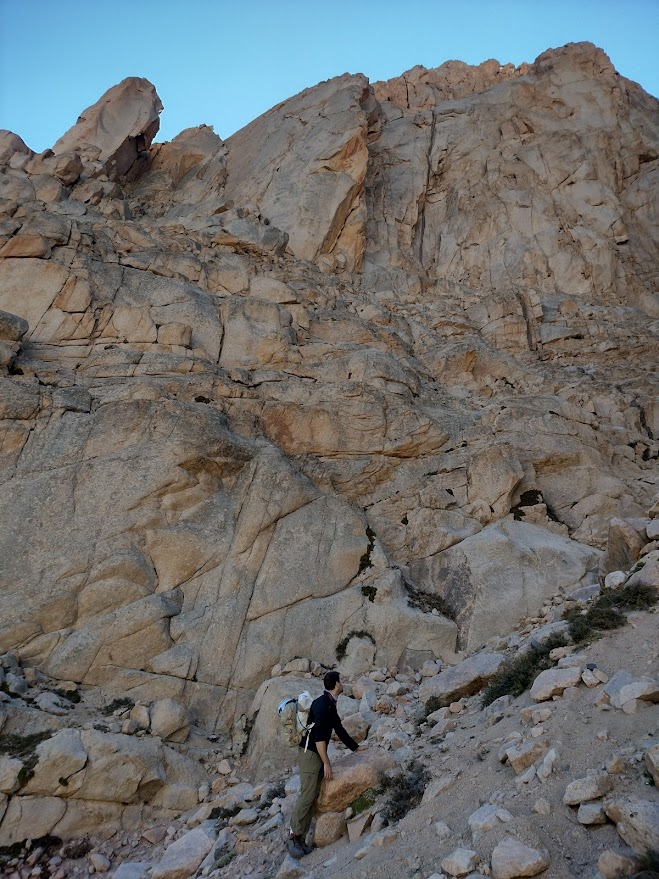
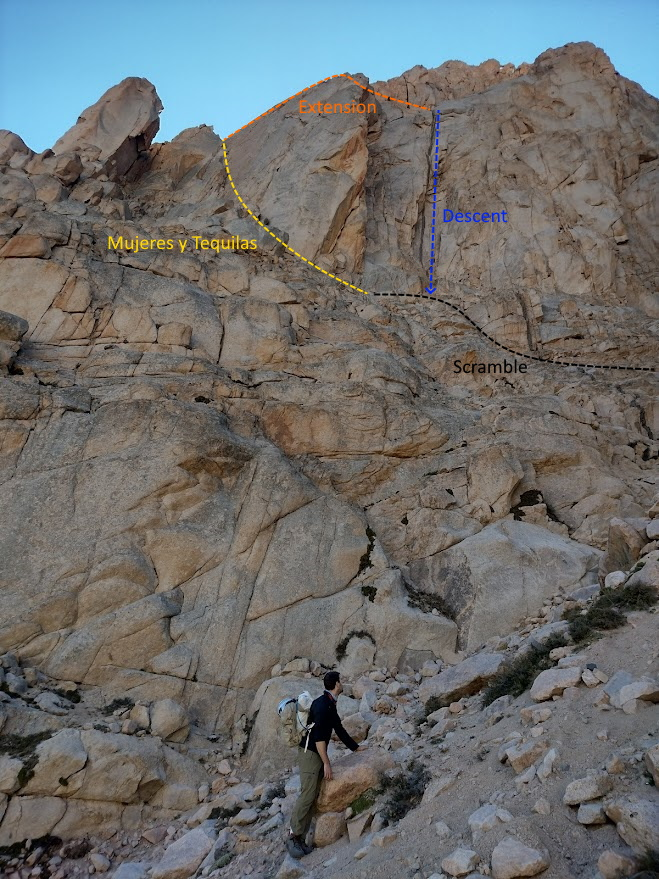
first release good enough

diff --git a/_posts/2023-12-20-MyTripToArenales.md b/_posts/2023-12-20-MyTripToArenales.md
@@ -5,12 +5,20 @@ date: 2023-12-20
 
 # Arenales
 ![Welcome to Arenales](/post_images/arenales/welcome.jpg "Welcome to Arenales")
+
 Bienvenidos, this post is intended to:
 - Tell you about my first trad climbing trip as a "Leader".
 - Get back to the community from which I've taken much and not given anything. This means trying to provide as much info as I can about the climbing routes I did with my good friends.
 - Try to reference the good resources I've used to prepare myself for this trip.
 
 Ah yes, this post ~~may be~~ is long, and it's a mixture of story telling and "technical climbing info", so skip to whichever part you like.
+
+BTW, I made a fairly long video of this trip, in case you want to see it.
+
+[Youtube Link!!!!!](https://www.youtube.com/watch?v=PP3lu7R6cnk)
+
+![](/post_images/arenales/hehe.png "watch my video, do me a favor")
+
 
 ## Forewords
 As stated on my homepage, this website can have posts either in Argentine Spanish or broken English. In this case, I've chosen the latter.
@@ -31,7 +39,7 @@ However, one of them stood out, Arenales, located at the Mendoza's Cordillera, a
 These trips had me in awe, not only because of the stunning views and quality of the climbing, but also because of the sheer determination and composure that Santi and other friends (Tortu) climbed with.
 
 ![](/post_images/arenales/santi_tortu.jpg "Santi, Tortu and Me")
-*Santi, Tortu and Me on the summit of Patricia on my second trip to Arenales.*
+_Santi, Tortu and Me on the summit of Patricia on my second trip to Arenales._
 
 
 Having successfully lead two 6a trad pitches on one of those last trips, I learned two things: Trad climbing was indeed hard and required a mental strength that I doubted I could ever achieve on my own. But I also knew I wanted to lead and share the experience with other people.
@@ -49,7 +57,10 @@ I will try not to make this section too long since, A, I don't really remember m
 
 Let me say, that the single most valuable piece of advice I can give you about Arenales is: **get the guide**. You can, _sometimes_, buy it on climbing stores in Argentina or (I don't frankly know exactly how) you can get a PDF from the writer Nacho Elorza. For the second alternative, your best shot is to contact him on his instagram @arenalesclimbing.
 
-To support the guide, I will only share the topos  of the two multi-pitches we did on this last trip Arenales.
+![](/post_images/arenales/guia_de_escalada_arenales_1_imagen2.jpg)
+_The guide, picture by Naka Outdoors (located in Buenos Aires)._
+
+To support the guide, I will only share personal ""topos"" of the two multi-pitches we did on this last trip to Arenales.
 
 ### Getting There & Supermarket Haul
 On all of my previous visits, we drove from Buenos Aires, on a long - but not that long - 14 hour drive to Arenales itself. This is probably the best way of getting there since you have no weight limits and get to buy most of your goodies beforehand. Also, the last leg of the trip from Manzano Historico to the valley has no public transportation.
@@ -61,6 +72,7 @@ From the airport, we headed to the supermarket and got our goodies for the trip.
 - Salame and Hard Cheese
 - Pan Dulce (Argentine Pannetonne)
 - Pistachios
+- Ingredients for a Putanesca sauce (anchovies, capers and olives) 
 
 And the clear misses:
 - A pound of mozzarella cheese
@@ -105,7 +117,7 @@ In terms of clothing (this was December), what I used almost every single day wa
 - Camp Sandals (pair of Tevas)
 - Sun Screen, lots of it (not clothing but putting it here feels right)
 
-![](/_posts/images/arenales/packing_gear.jpg)
+![](/post_images/arenales/packing_gear.jpg)
 _Stuff I took Arenales this time, it did fit._
 
 Again, this is just a guideline for anybody kind of wondering what to bring but, as you can obviously tell, it is not a very extensive description.
@@ -138,6 +150,9 @@ Besides trips with friends, I never had any formal Trad-specific climbing educat
 ## Day 1: Mujeres, Tequilas y Otras Hierbas
 After a quick breakfast at Manzano Historico, we headed up the valley, arriving at the military checkpoint around 8 AM. From there we got to "El Puente" (the bridge) where we left our rented car (Toyota Etios that handled the gravel road just fine) at the parking spot.
 
+![](/post_images/arenales/the_hut.jpg)
+_The mountain hut at the valley._
+
 The camping spot and mountain hut are located 20 minutes away from the car. When loaded with all the food and equipment, it can be quite a strenuous hike. Therefore, we decided to head straight to the Aguja Nuez (remember I needed any little edge I could get.) and then return for things to setup camp.
 
 Finally, at 9 AM we started our approach to a classic multi-pitch _Mujeres, Tequilas y otras Hierbas_ graded 5+ and recommended in the guide.
@@ -149,10 +164,16 @@ The approach involves hiking in steep scree towards the right of the Aguja Nuez,
 
 Arenales has the characteristic of having a million ways of reaching a given route. In this case, we probably took the worst, where scree accompanied us most of the way up.
 
+![](/post_images/arenales/me_and_juancho_valley.jpg)
+_That's Juancho and Me, stopping for the 10th time to catch our breath during the approach._
+
 Once at the base of the route (1 long hour later), a 3rd class scramble will bring you to a huge plateau where Mujeres y Tequilas starts and many other routes as well (Black Titer Dyke).
 
 ### The Route
 The route is a 5+ FR, 3 pitches route that is recommended in the guidebook. It is regarded as an iconic initiatory climb since all anchors have bolts and you can retreat at any point. Furthermore, the line follows a very clear diagonal flake that makes it impossible to get lost.
+
+![](/post_images/arenales/scramble_to_mujeres_y_tequilas.jpg)
+_The route and the "Topo". Yeah... get the guidebook."_
 
 So there I was, at 10:30 AM on my first ever multi-pitch as a leader. I will admit that I had to gaslight myself into believing I liked this sport. 
 
@@ -161,7 +182,7 @@ This pitch involves climbing a pretty blocky section with a style that we, as a 
 
 It is graded as a 4+ but I felt that the crux was around 5/5+. This discrepancy could be because, I was certainly very nervous and probably didn't choose the easiest path.
 
-At the top you reach, yet once again, another huge ledge that will feel like a deja-vu.
+At the top you reach, yet again, another huge ledge that will feel like a deja-vu (bolted boulder).
 
 #### Pitch 2: 5
 This is arguably felt the easiest of all the pitches that day. This is a very straight forward pitch that follows the flake edge. The rock quality is amazing and protections are abundant. 
@@ -175,6 +196,9 @@ A really fun 5+ pitch that involves easy lay-backing combined with steming at th
 
 The pitch ends at a pretty comfortable sitting belay from the top of the Aguja Nuez pillar, the views from here are just amazing.
 
+![](/post_images/arenales/edu_juancho_muj_y_teq.jpg)
+_Juancho and Edu killing it on arguably the best pitch of the climb._
+
 From this point on, you may choose to rappel down the 3 pitches and call it a day. However, we felt pretty good and decided to do the an extension suggested in the guide and by some people.
 
 #### Extension Pitch 4: 5 or 6a
@@ -182,14 +206,26 @@ From this point you have two options for doing an extension. One is a 6a crack s
 
 The second option is an easy blocky 4+ to 5 grade climb around the facewall. I chose this path since it was literally my first time leading a group and I opted for the safest option. 
 
+![](/post_images/arenales/extension_muj_teq.jpg)
+_Extension pitch - the easy option. On the right you can see the system of cracks that seemed pretty daunting from the bottom._ 
+
 According to the guidebook, this extension pitch (whichever option you choose) ends at a removable anchor located at a huge ledge. However, I somehow landed at a fixed anchor, which the guidebook did not show nor mentioned. 
+
+![](/post_images/arenales/traverse.jpg)
+_The boys doing the actual last pitch of the day, a 3rd class traverse with beautiful views._
 
 So, there I was, essentially lost (albeit on a huge comfortable ledge) but I knew we were not that far from where I should have ended. After bringing my partners up, we were able to lean over the ledge we were standing and successfully spotted the ledge (which had the start of our abseils down). 
 
 After some brainstorming sesh with the guys, I started the actual last pitch of our endeavour which consisted of a 3rd-4th traverse to the anchors with a subtle downclimb. 
 
+![](/post_images/arenales/actual_exteions_muj.jpg)
+_Top view of the extension (in Spanish and not great either)_
+
 ### Getting Down
 As mentioned before, you may descent from the same route or do the extension and abseil through Black Titer Dyke. The latter -and the one we chose- has the advantage of being quite vertical, lessening the chances of getting the ropes stuck.
+
+![](/post_images/arenales/us_rapelling_2.jpg)
+_Rapping down Black Titer Dyke._
 
 These rappels end at big ledge that requires an easy downclimb to get to the start of Mujeres y Tequilas.
 
@@ -198,7 +234,13 @@ I loved this route, if I had to pick a word to describe it I would say, safe. It
 ## Day 2: Chilling and Single Pitches at Carlos Daniel
 We felt surprisingly good the day after our first multi-pitch and thought of doing some sort of active rest. We chose the single-pitches at Carlos Daniel since it featured some easy trad routes that Juancho and Edu could try leading.
 
+![](/post_images/arenales/edu_climbing_zafarranchp.png)
+_Edu onsighting his first trad route._
+
 And they not only tried but also onsighted their first trad pitch (a not so blocky 4th class). Edu displayed a repose that I had not seen in him before , and Juancho showed his inner survival mode that not many have privilege of witnessing. 
+
+![](/post_images/arenales/me_on_the_flake.png)
+_Me on the start of The Flake, things got spicy at the traverse._
 
 On my end, I got on a 6a called "the Flake" which I had tried on previous trips. I was never able to redpoint it but with my newly gained confidence I thought I would ace it. Syke! I was terrorized by a traverse that I blindly protected with a sketchy #2 and had to pick my mental from the depths of the earth to complete the route.
 
@@ -213,8 +255,13 @@ Syke again! I had literally one of my worst nights at the mountains where I am p
 ## Day 3: El Zorro
 We got up as early as we could (I was already up chatting with my inner Gollum) to have spare time in case we got lost or had any type of setback. A quick breakfast and we were off to our final multi-pitch of the trip.
 
+_Sorry, I lied, no topo of this one since, no pictures._
+
 ### Approach
 A typical Arenales approach with steep hike over scree. However, I will say that this one felt significantly easier than Mujeres y Tequilas. The start of the route is to the left of the Jesus Christ statue so it's pretty hard to miss.
+
+![](/post_images/arenales/start_zorro.jpg)
+_Start of El Zorro, the picture is not mine but, shh, nobody has to know._
 
 ### The Route
 The route is another beginner friendly multi-pitch located at the Aguja Cara del Inca. It was described by one of the guys from La Plata as "the easies route on the valley". The guidebook also recommends this line due to its great last pitch which I will describe later.
@@ -224,49 +271,97 @@ The pitch starts at the left side of the Jesus Christ easily spotted by some kin
 
 This pitch had me pretty nervous at the start but I must say it was really fun, and once the crux was over (the first meters), it became a pretty mellow blocky journey to the top.
 
+![](/post_images/arenales/edu_juancho_zorro.jpg)
+_Juancho belaying Edu in the first pitch._
+
 The anchor is located at a system of ledges where and protruding boulder becomes the obvious choice. Once I saw it, my climbing confidence was almost restored to its fullest.
+
+![](/post_images/arenales/anchor_1.jpg)
+_Pitch 1 Anchor._
 
 
 #### Pitch 2: 5+
-Can't remember much about this pitch but it involved some easy blocky climbing with one or two 5+ moves. At this point, my inner Gollum was being real quiet and I was really enjoying the experience. 
+![](/post_images/arenales/pitch_2.png)
+_View of Pitch 2 from the bottom._
+
+Can't remember much about this pitch but it involved some easy blocky climbing with one or two 5+ moves. At this point, my inner Gollum was being real quiet and I was really enjoying the experience.
+
+![](/post_images/arenales/juancho_and_me.jpg)
+_Me and Juancho discussing... something?_
 
 This pitch ends at another system of ledges with plenty of vertical cracks to create an anchor with bomber gear. Three cams and a coordellete took care of matter.
+
+![](/post_images/arenales/anchor_2.jpg)
+_Pitch 2 Anchor._
 
 #### Pitch 3: 5+/6a
 This pitch starts off with a hand sized crack near a dihedral that allows for some stemming to escape the net-crack-climbing. The pitch finishes at another ledge system with, _yet again_, more vertical cracks for a bomber anchors. Three more cams and a 240 cm sling slayed the matter.
 
+![](/post_images/arenales/anchor_3.jpg)
+_Pitch 3 Anchor._
+
 #### Pitch 4: 6a
 Another blocky pitch that, as I began climbing, thought would be a Trepin-Danger (Sketchy Scrambling) but it involved some traversing together with some 6a moves. The crux was at the top and I was using my gear sparingly sine I didn't know what I would need at the anchor. Luckily after a delicate move with a great hand jam I reached the top, a huge boulder that the cordellete handled really well.
+
+![](/post_images/arenales/anchor_4.png)
+_Huge boulder at Pitch 4 Anchor._
 
 #### Pitch 5: 5+ The GOAT
 This pitch follows two cracks located at the headwall infront of the boulder. The start involves an exposed move (but easy & fun) where you need to downclimb a little, turn around and lean from the anchor ledge into the headwall hands first (there is a gap between both formations). 
 
 Before doing it, Gollum was speaking back to me but I told him to shut it and proceeded to lean towards the wall with as much confidence I could gather. Once I grabbed the first hold I knew I was in for a sweet ride. 
 
+![](/post_images/arenales/me_on_el_zorro.jpg)
+_Me crushing it on the last pitch of El Zorro 5+._
+
 With a bomber #1 in, I was ready to enjoy what perhaps is, the best 5+ I've done in my entire life (as a gumby). The system of cracks were perfect, offering the possibility of net-crack-climbing if desired. 
 
+![](/post_images/arenales/perspective_zorro.jpg)
+_Edu and Juancho from the top of the last pitch._
+
 The pitch ends right at the top of the headwall where a small boulder can be slinged into an anchor (with a counter-pull cam as a backup).
+
+![](/post_images/arenales/juancho_zorro.JPG)
+_Juancho coming up the last pitch, the view was stunning (I was too anxious to appreciate it)._
 
 ### Getting Down
 The great part of this route is that no abseilling is required (walk-off). It starts by walking towards the back of the route and then descending a steep scree hike, it is important to stay towards the right of the descent. Once the path ends, a short 3rd-4th downclimb will leave you at the huge canal which ends at the Jesus statue.
 
+![](/post_images/arenales/down_el_zorro.jpg)
+_Top view of the walk-off drawn by me (sorry). Bottom would be the front of the facewall._
+
 Once we got down, I was finally able to enjoy our accomplishment and savour the beautiful day we had at the mountains. After a terrible night with myself I was able to prove me wrong and accept my capabilities. Yeah, fuck you inner Gollum.
+
+![](/post_images/arenales/us_at_the_base.jpg)
+_Us, safe and sound, at the base of the route. Do I have a white spot?_
 
 ### Day 4: Rest Day
 After a celebratory meal the night before (I could finally eat without stress), we took our final day off at the valley. Not much happened in terms of climbing but we did a pretty cool hike to the top of the "plug" where some astonishing views of the valley took protagonism. 
+
+![](/post_images/arenales/mate_spot.jpg)
+_The mate spot after crossing the first plug of rocks in the valley._
 
 We also got to enjoy probably the best (a lot of best and worsts in this trip) mate I had in the mountains while listening to some good music alongside Juancho and Edu.
 
 I do recommend hiking up since it offers a good way of resting your fingers and also provides some really good views of the cordillera without too much effort.
 
 ## Ending Words
-- arenales still doesn't cease to amaze me
-- I want to go back right now
-- Arenales demands and provides
-    - amazing climbing
-    - mental battles
-    - forces me to evolve
-    - great friends & bonding experiences where you literally trust your life to your partners
-I'll leave you a quote that resonated with me deeply during this trip and that I hope it does to you as well:
+Arenales still doesn't cease to amaze me, with the only real downside being the existential crisis that I'm left with when back at home.
+
+Arenales has consistently provided me:
+
+- Amazing climbing
+- Mental battles
+- Great friends
+- Appreciation of simple foods
+- Justification for bath evasion
+
+For these, I am grateful and eager to request them again next year.
+
+I'll leave you with a quote that resonated with me when writing this post and that I hope resonates with you as well:
 
 > “You get to the top of a wall, there’s nothing up there. Lionel Terray, the great French climber called it ‘The conquistadors of the useless.’ Yeah, the end result is absolutely useless, but every time I travel, I learn something new and hopefully I get to be a better person.” – Yvon Chouinard, 180 Degrees South
+
+See you on the next post, or not (I understand, this was too long and maybe boring).
+
+Manny
